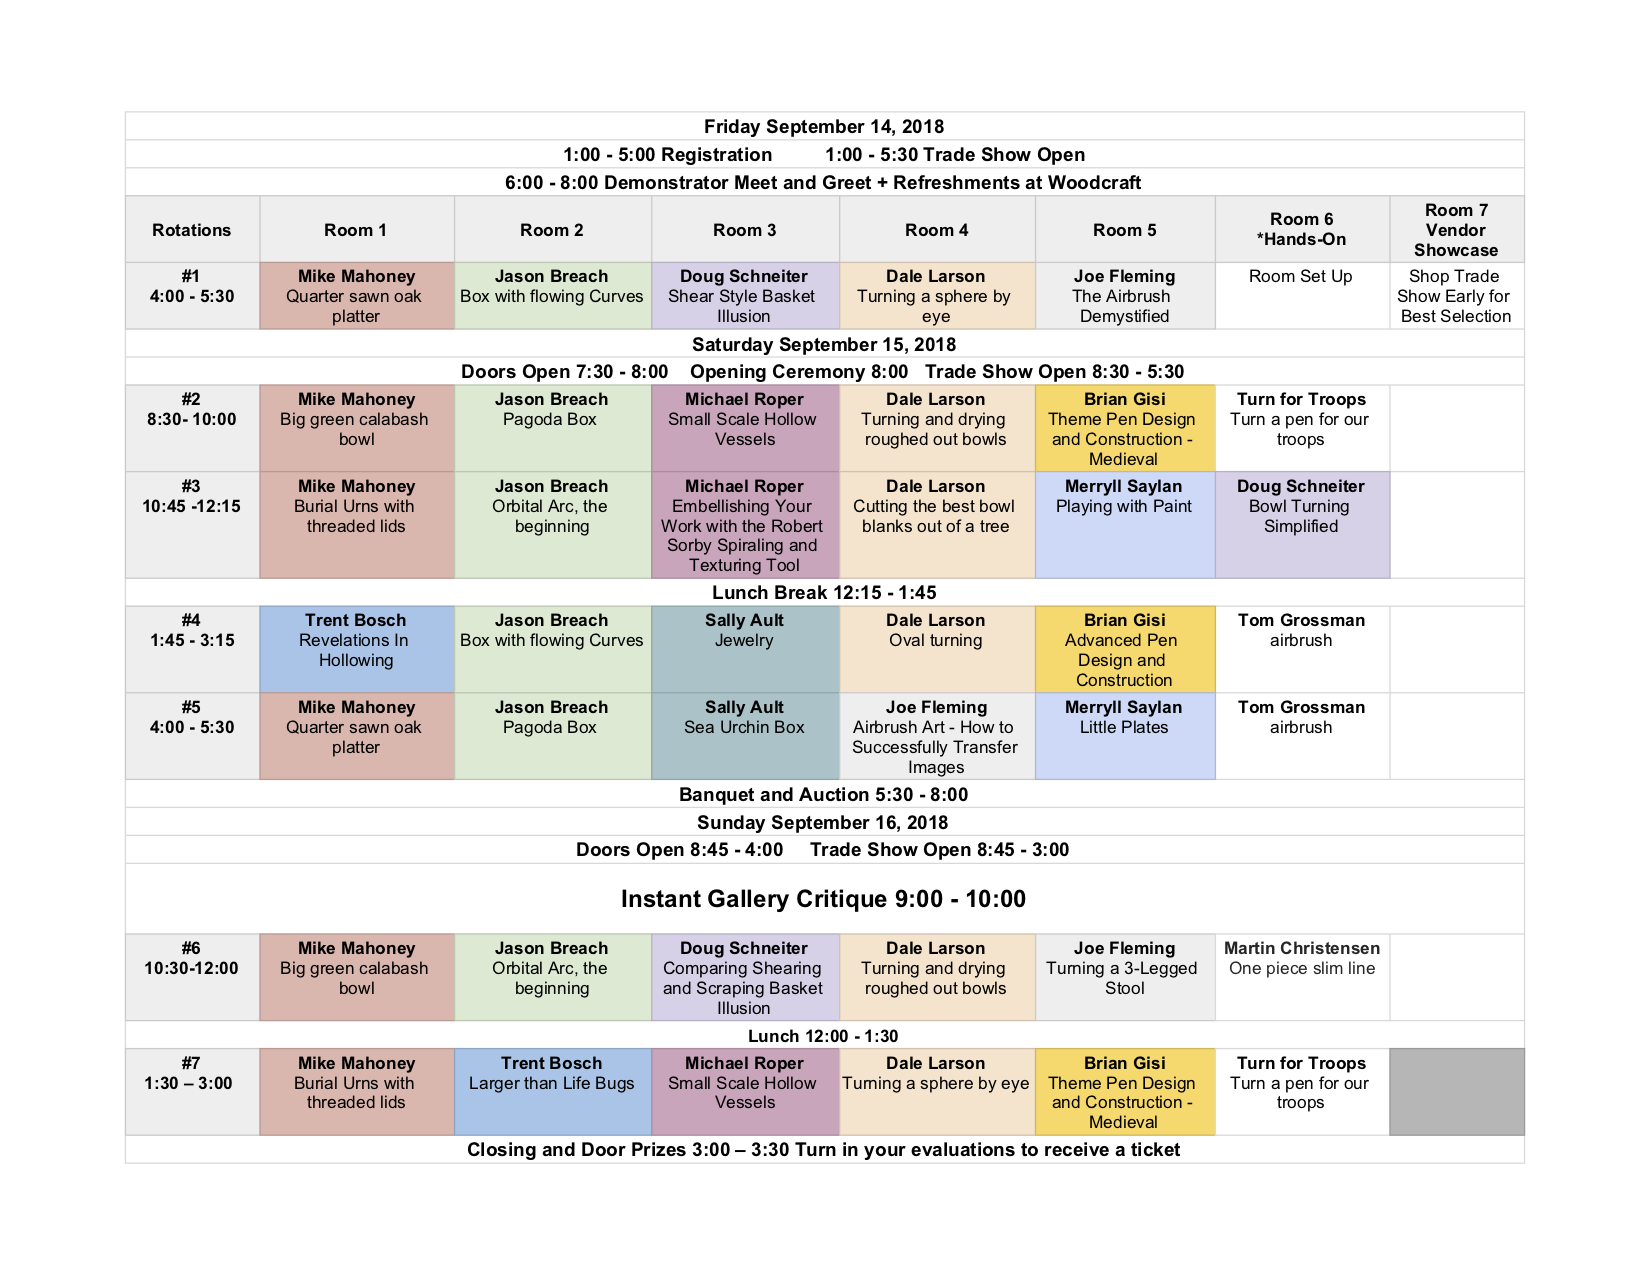
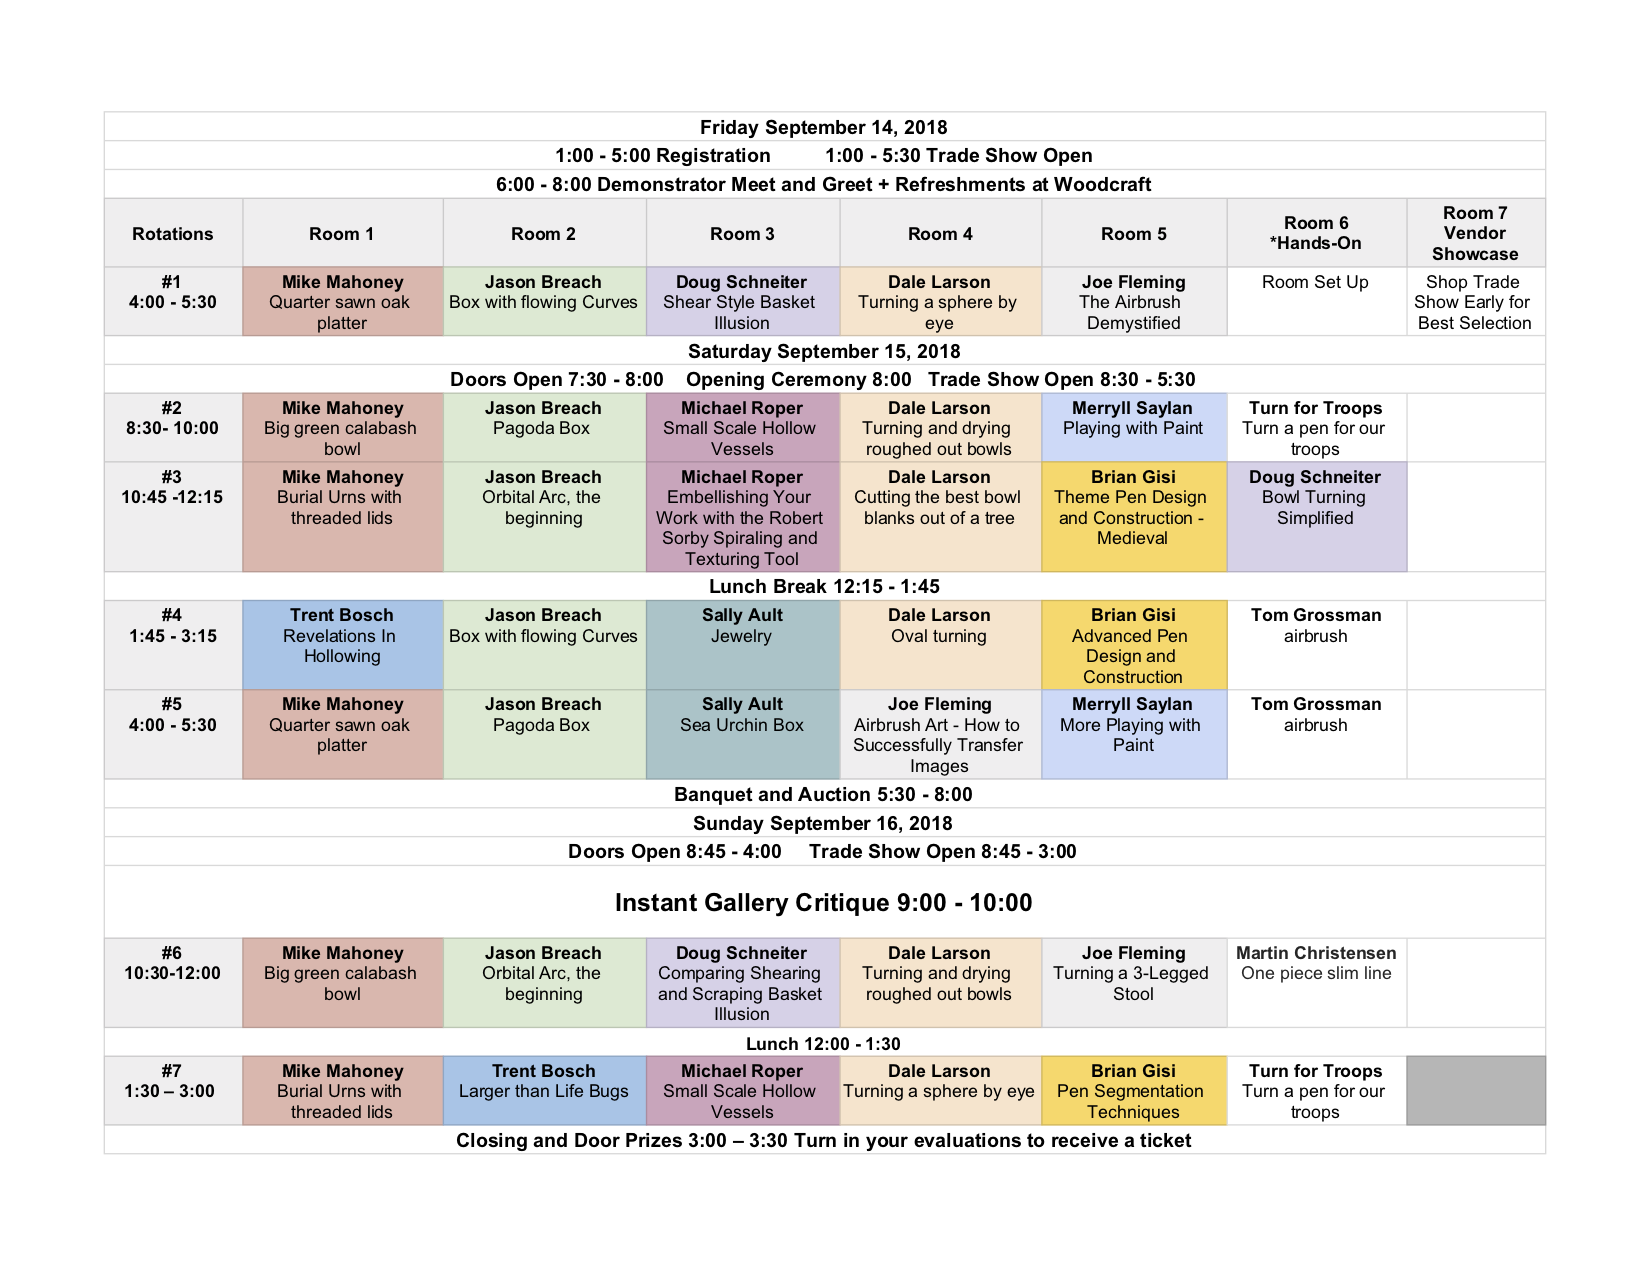
schedule updates

Changed region(s): [[0.0618, 0.0918, 0.9582, 0.9176]]

diff --git a/templates/schedule_body.html b/templates/schedule_body.html
@@ -3,11 +3,18 @@
 <h1>Rocky Mountain Woodturning Symposium Schedule</h1>
 
 <div class="schedule">
+  <div class="note">Update September 4, 2018</div>
+  <ul>
+    <li><a href="presenter.html#Gisi">Brian Gisi</a> is now doing a session entitled "Pen Segmentation Techniques". We do not have any other description yet.</li>
+    <li>Switched rotation 2 and 3 between <a href="presenter.html#Saylan">Merryll Saylan</a> and <a href="presenter.html#Gisi">Brian Gisi</a>.  Now there is a little less alignment with pen demos and pen hands-on sessions.</li>
+    <li><a href="presenter.html#Saylan">Merryll Saylan</a> is now doing a new topic during the second rotation entitled "More Playing with Paint".  We added info to <a href="presenter.html#Saylan">her demonstration descriptions</a>.</li>
+  </ul>
+
   <div class="note">Update August 11, 2018</div>
-    <ul>
-      <li><a href="presenter.html#Bosch">Trent Bosch</a> is now doing a session on "Larger than Life Bugs"</li>
-      <li>Sessions 6 & 7 in Room 5 have been swapped</li>
-    </ul>
+  <ul>
+    <li><a href="presenter.html#Bosch">Trent Bosch</a> is now doing a session on "Larger than Life Bugs"</li>
+    <li>Sessions 6 & 7 in Room 5 have been swapped</li>
+  </ul>
 
   <p>
     Download a printable schedule <a href="images/sched/2018-schedule.pdf">here</a>

diff --git a/templates/presenter_body.html b/templates/presenter_body.html
@@ -226,6 +226,11 @@
     acrylics, watercolors, oils & more. Mixing, matching and making choices. Techniques & properties
   </p>
 
+  <h3>More Playing with Paint</h3>
+  <p>
+    Making and using glazes & finishes to alter and enhance painted surfaces.  Aging pieces.
+  </p>
+
   <h3>Little Plates</h3>
   <p>
     <img src="images/MerryllSaylan/Picture39.jpg" alt="Plates" title="Plates"> Turning little decorative plates: low tech
